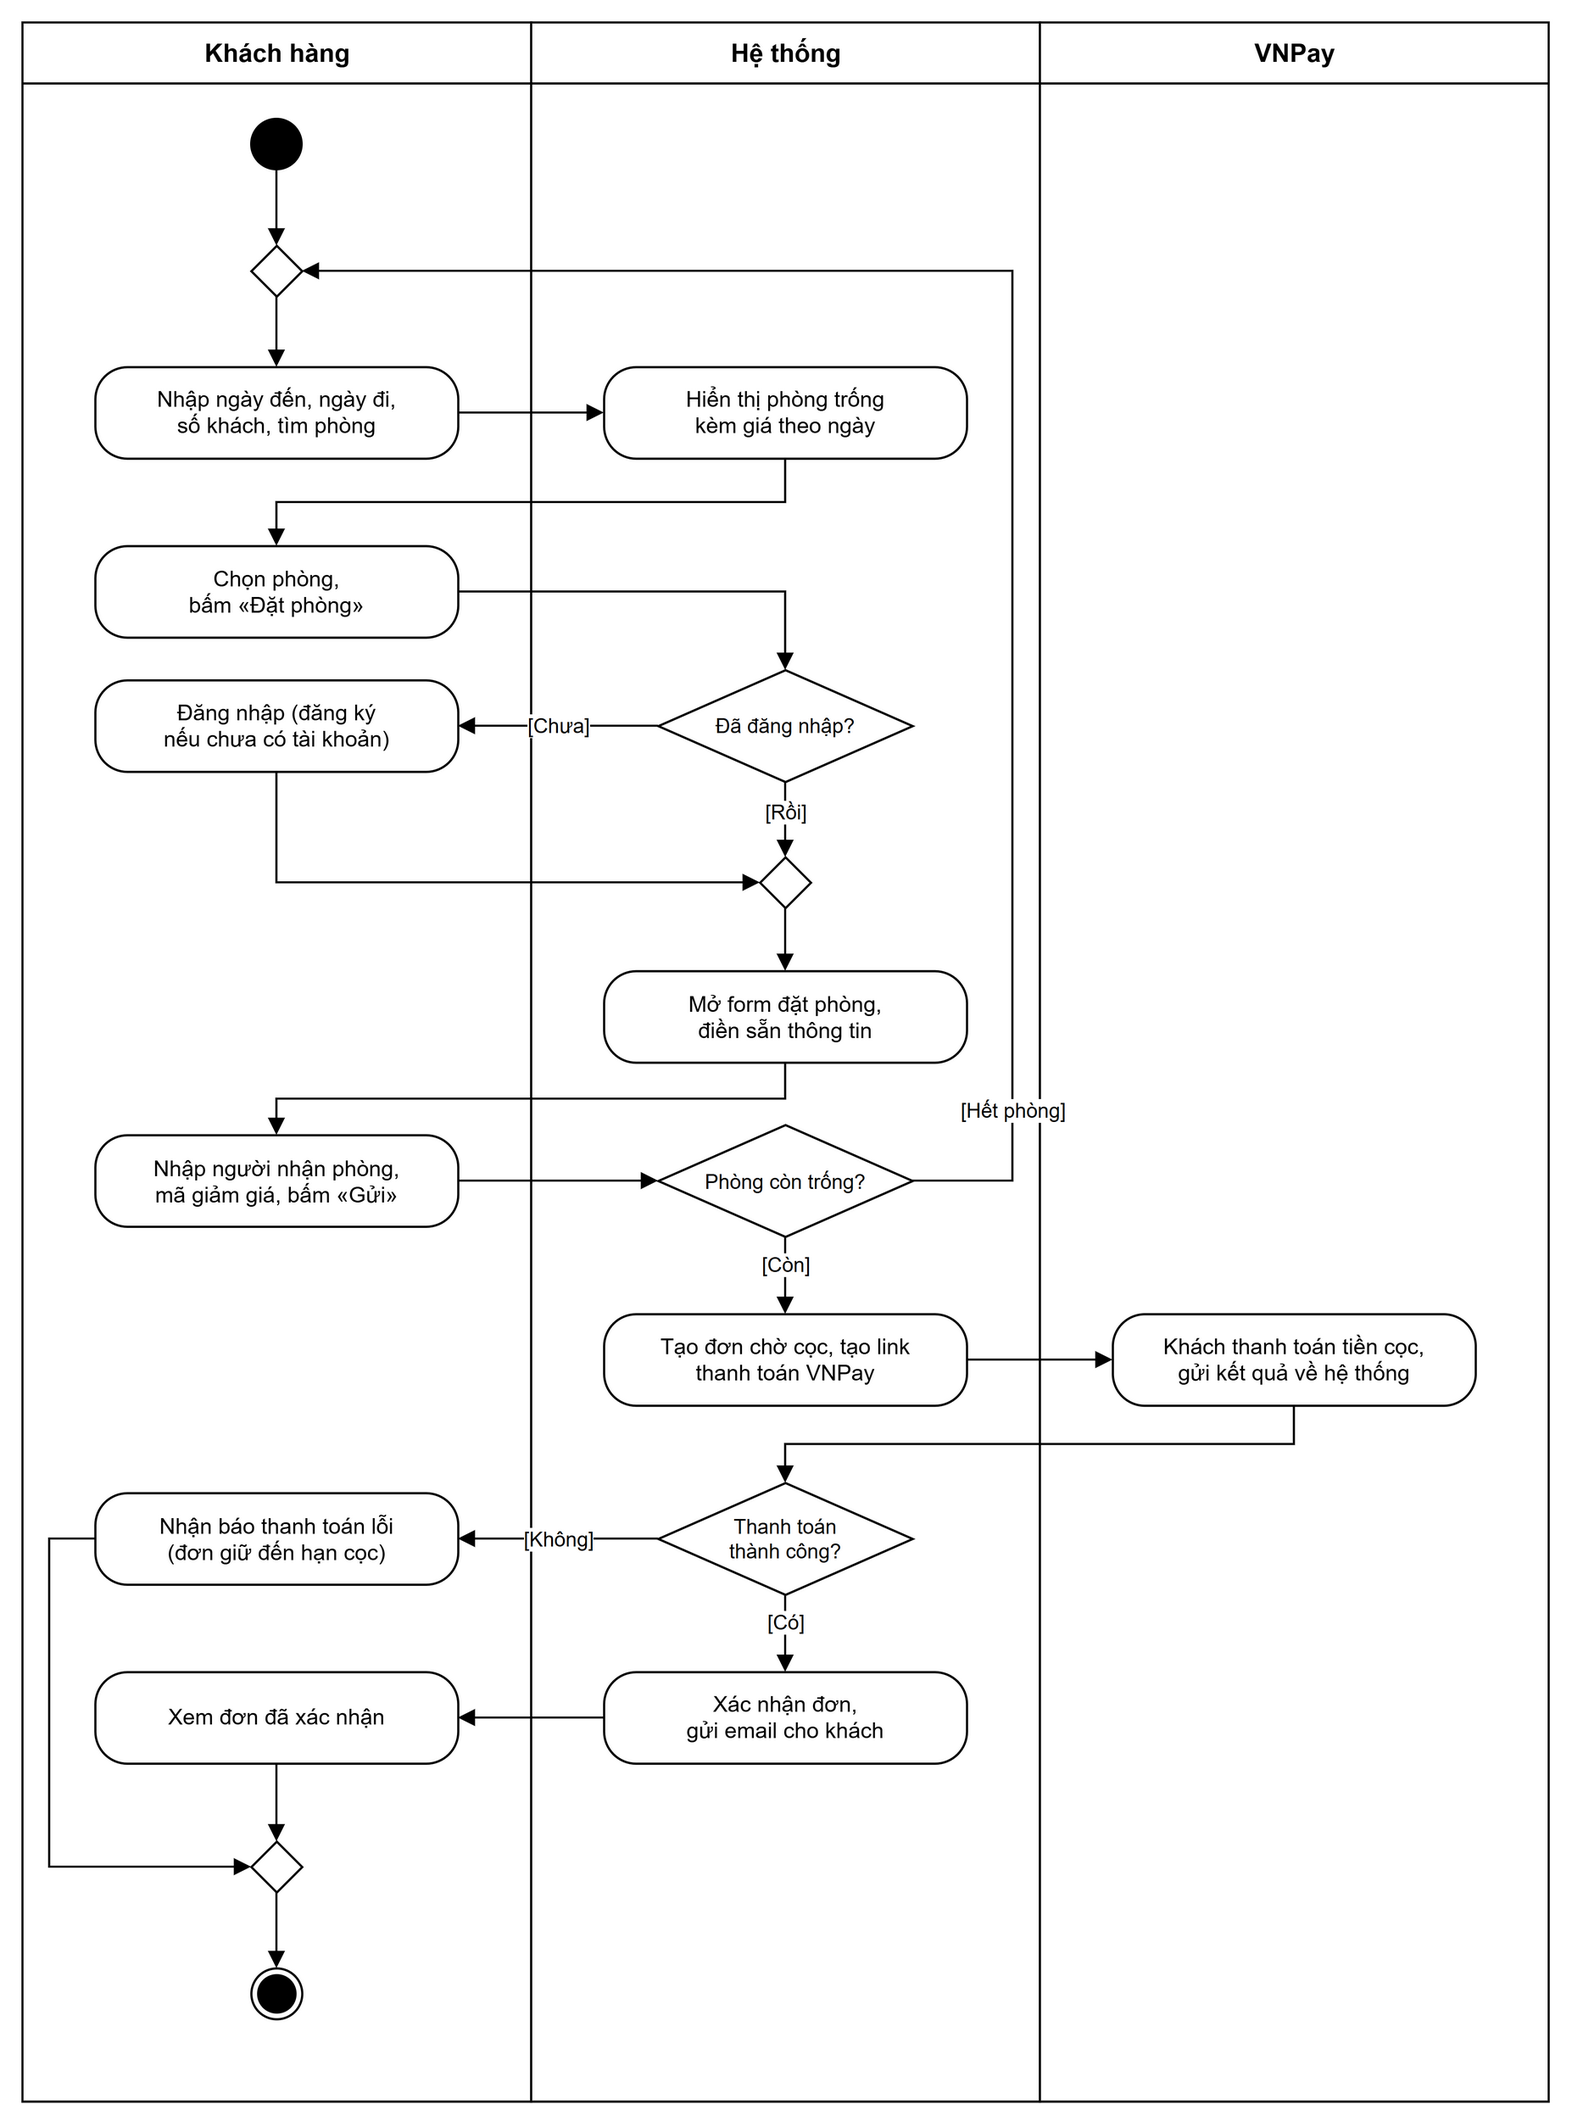
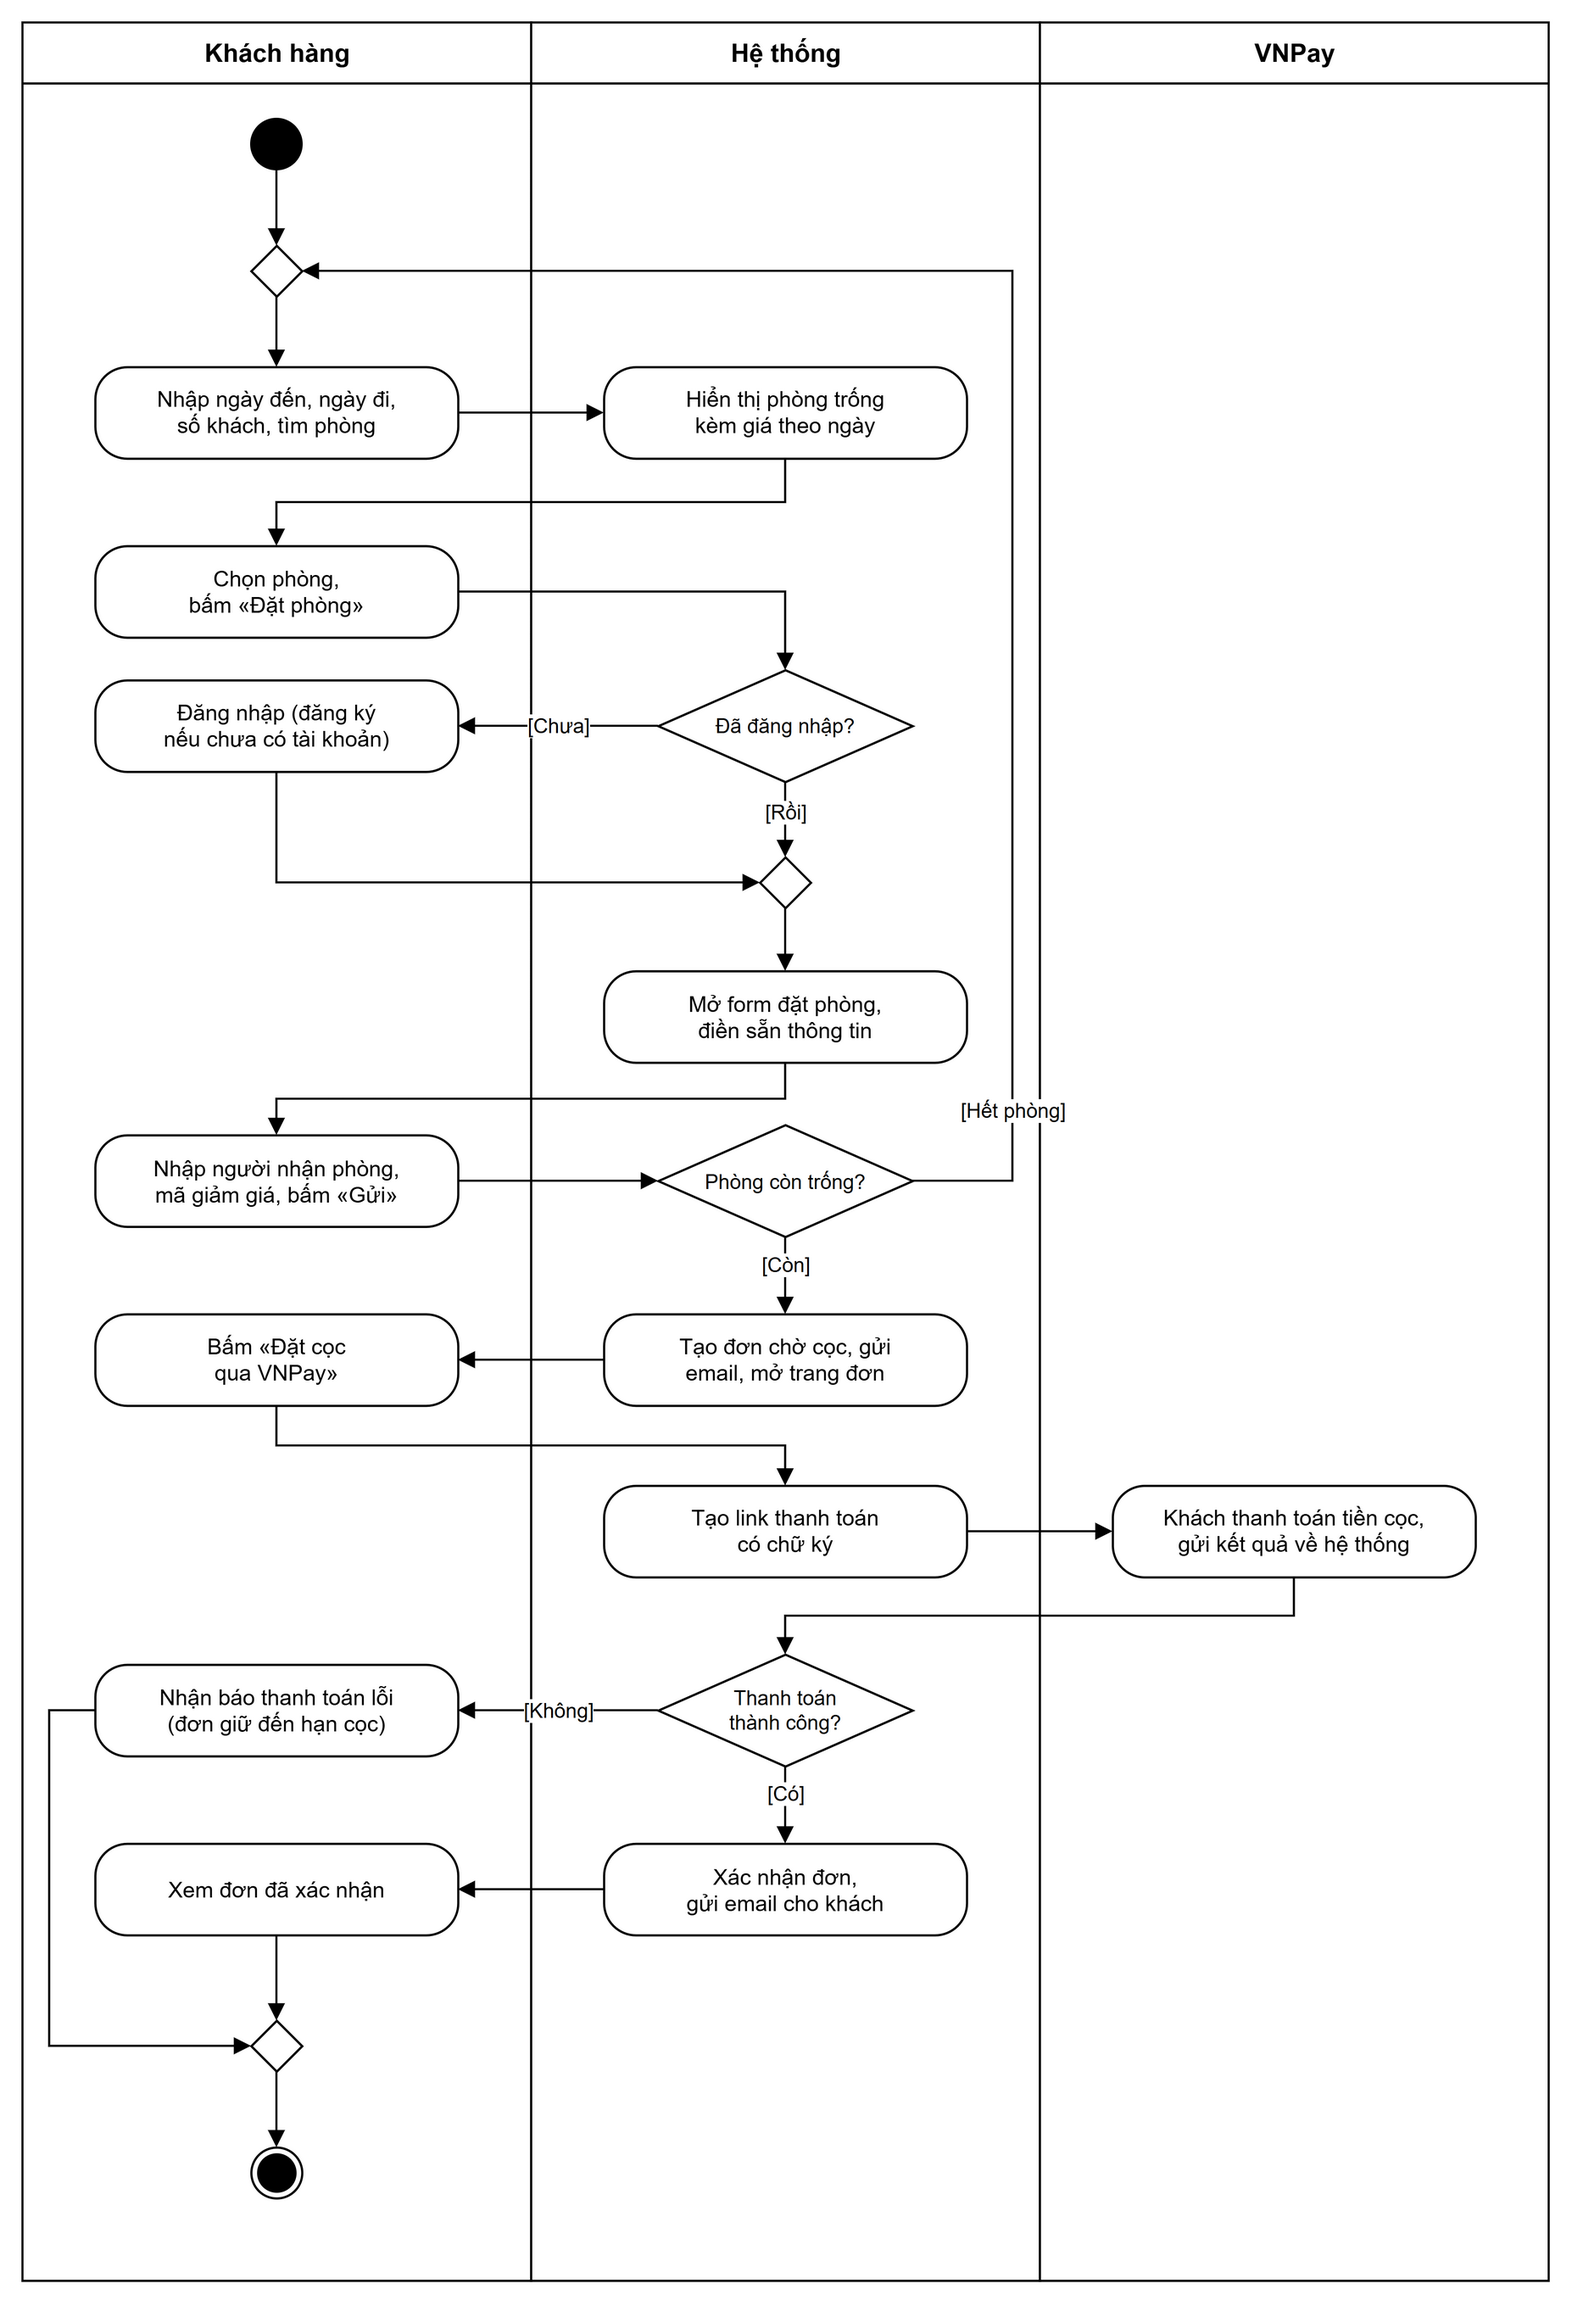
Bieu do hoat dong: sua Hinh 2.8 dung code (khach tu bam Dat coc qua VNPay tren trang don); them ban slide docs/slide (lan ngang, ti le 2:1 phu kin slide 16:9); cap nhat TIEN-DO

diff --git a/TIEN-DO.md b/TIEN-DO.md
@@ -37,6 +37,7 @@
 ### Đợt 22 (30/10/2026) - Soát báo cáo Word, sửa chỗ lệch với code / sơ đồ mới
 | Commit | Chức năng |
 |---|---|
+| (xem `git log`) | Theo yêu cầu «biểu đồ hoạt động đã đúng logic chưa ... cho vào slide nó bao phủ slide»: đối chiếu 5 biểu đồ với code. **Sửa Hình 2.8**: tạo đơn xong hệ thống mở trang chi tiết đơn (chờ cọc), khách tự bấm «Đặt cọc qua VNPay» thì mới tạo link thanh toán (`CustomerBookingController.createBooking` → redirect trang đơn, `VnPayController.start`); bản trước gộp thành «tạo đơn, tạo link VNPay». 4 hình còn lại khớp code (`checkOut`, `HousekeepingService.finish/pass`, `cancelBooking`, `confirmRefund*`, `FacilityReservationService.confirm`). **Bản cho slide** `docs/slide/hd-*.drawio` + `.png`: làn nằm ngang, luồng trái → phải, tỉ lệ ~2:1 (vừa khung 16:9 trừ tiêu đề), chữ 17px, cùng nội dung với bản Word, 1 bắt đầu / 1 kết thúc. Script `hd_slide.py`. **Chưa thay Hình 2.8 mới vào Word** (Word đang mở file báo cáo): đóng Word rồi chạy `patch_hd.py` (thay 5 ảnh hd-* theo chú thích, rộng 12 cm) + `word_update.ps1` |
 | (xem `git log`) | Theo yêu cầu «biểu đồ hoạt động vẽ dễ đọc 2 đến 3 actor thôi, 1 điểm bắt đầu, 1 điểm kết thúc, vẽ đẹp»: **vẽ lại 5 biểu đồ hoạt động** (Hình 2.8 - 2.12), mỗi hình 3 làn, đúng **1 nút bắt đầu + 1 nút kết thúc** (mọi nhánh kết thúc gom về nút merge trước nút kết thúc), bớt bước phụ, chữ trong hộp ngắn gọn (2 dòng), chữ Arial to hơn, nét đậm hơn, không đường cắt. Đặt phòng: hết phòng quay về tìm phòng, thanh toán lỗi / thành công cùng về 1 kết thúc; hủy đơn: không hủy / không cần hoàn / đã hoàn cùng về 1 kết thúc; lãi lỗ AI: gộp giá vốn vào bước nhập chi phí. Script `docs/so-do-rut-gon-dang-lam/hd_gen.py`. **Đã thay ảnh trong Word** (5 hình cùng chiều rộng 12 cm), cập nhật mục lục, xuất lại PDF (325 trang); đoạn mô tả dưới các hình vẫn khớp nên giữ nguyên |
 | (xem `git log`) | Theo nhận xét «biểu đồ hoạt động loằng ngoằng và sai nhiều»: **vẽ lại 5 biểu đồ hoạt động** (Hình 2.8 - 2.12, `docs/thiet-ke/hd-*.drawio`, ảnh `docs/hinh/hd-*.png`) theo đúng code và ký hiệu UML: mọi chỗ nhập luồng dùng nút merge (trước đây nhiều mũi tên đâm thẳng vào một hành động = join ngầm), điều kiện ghi `[..]`, không còn đường cắt nhau, mọi nhánh có nút kết thúc. Sửa sai nghiệp vụ: đặt phòng - hộp «Từ chối kết quả» nằm nhầm làn VNPay và cụt, «hết phòng» quay về bước nhập thông tin (nay quay về tìm phòng), thêm nhánh thanh toán thất bại → thanh toán lại / bỏ dở; hủy đơn - nhánh chưa cọc / tiền hoàn 0 đi vào «ghi thời điểm hoàn» (sai), nhánh «Đã cọc?» thiếu nhãn, email xác nhận hủy gửi ngay khi hủy, thêm VNPay hoàn lỗi → chuyển khoản tay; trả phòng - bỏ chỗ «Không» cắt «Chưa đạt»; đặt dịch vụ - bỏ hộp «Khi trả phòng» nối chéo, nhánh từ chối báo lại khách; lãi lỗ AI - hộp báo lỗi nằm nhầm làn Claude AI và cụt. Script sinh `docs/so-do-rut-gon-dang-lam/hd_gen.py`. **Chưa thay ảnh trong Word** (Word đang mở file báo cáo) |
 | (xem `git log`) | Theo yêu cầu «tất cả bảng trong file word là trắng»: bỏ hết tô nền ô (`w:shd` màu `DCEBF5`) ở 24 bảng của báo cáo, chỉ còn nền trắng + viền đen (chủ dự án đã tự bỏ 9 ô trước đó, giữ nguyên); xuất lại PDF |
